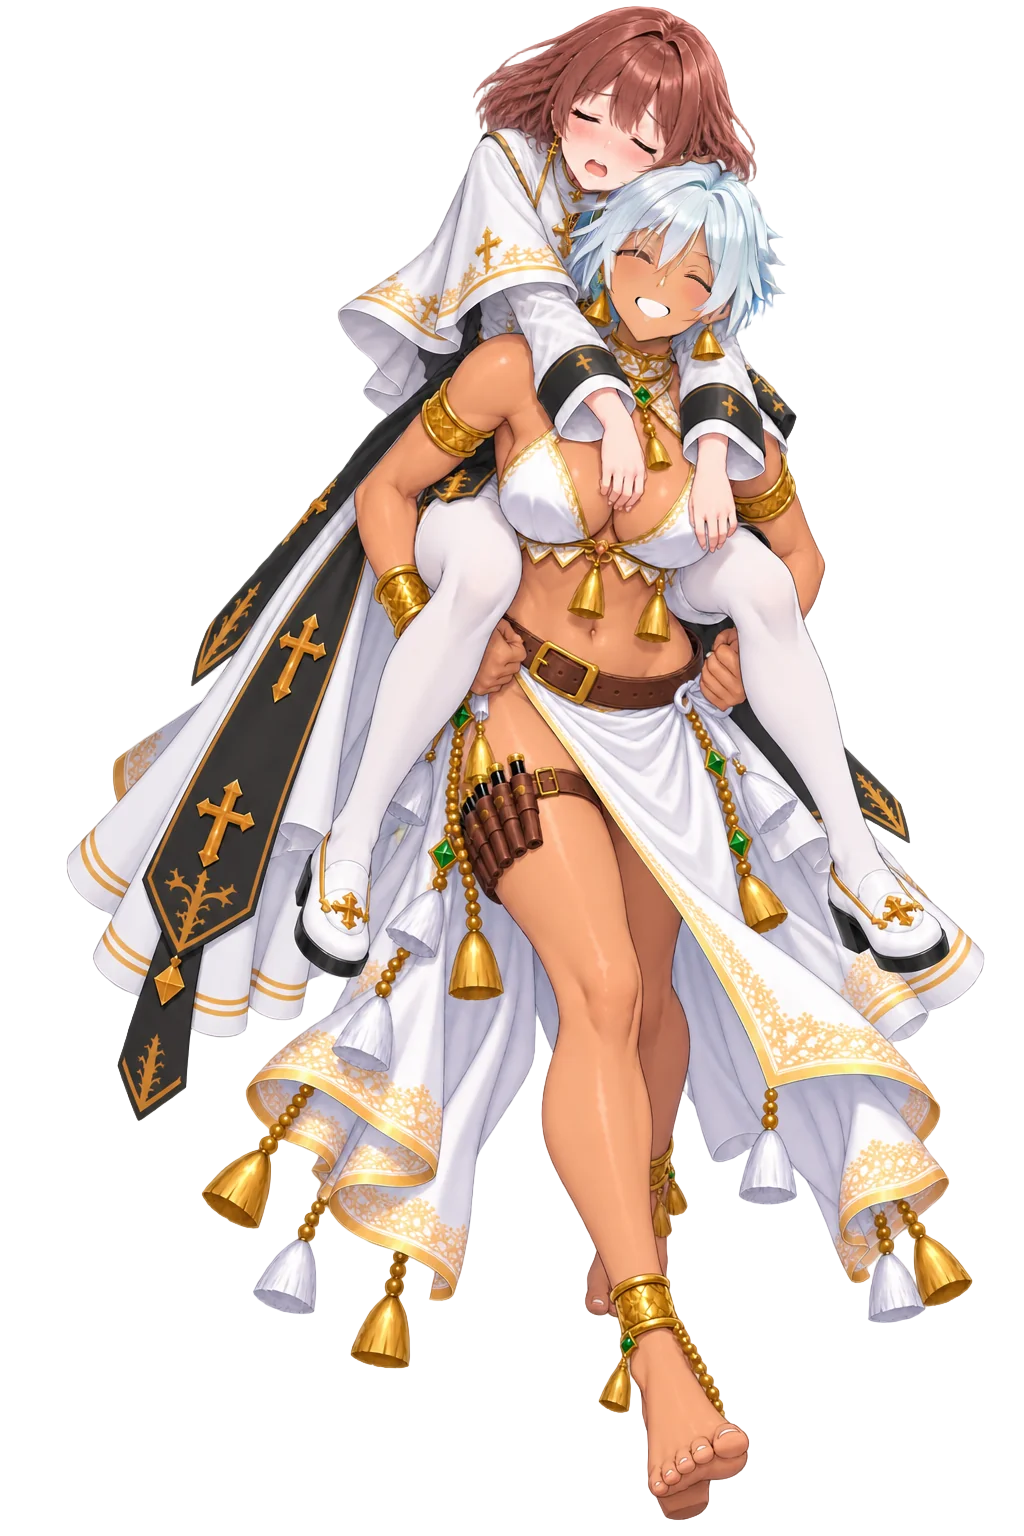
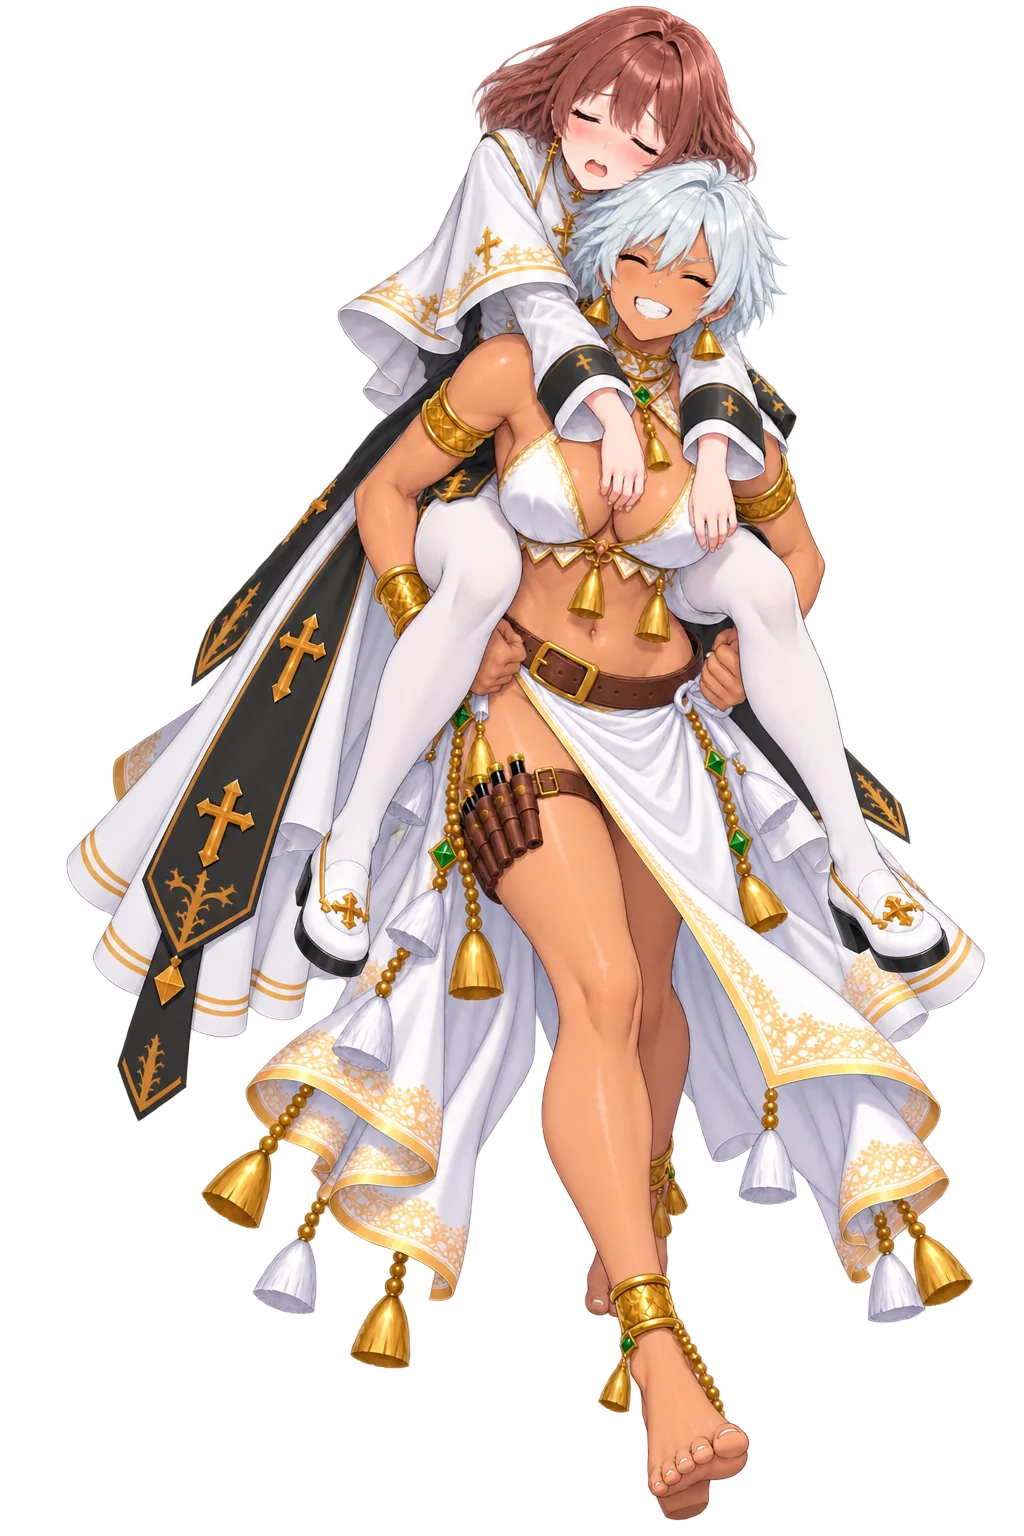
art: 背諾薇兒 +3 張・carrynouvelle 換成 Ray 的 alpha・蕾娜 snivel 入庫
Ray：「用我的那張, renna也收進來 / alpha有新圖, 注意諾的頭髮白邊」

⚠⚠⚠ 他說的白邊屬實，而且四項驗收全是 0.00% —— 近白的判準是 min(RGB)>=235，
而那圈殘留是淡粉灰（約 200），壓根到不了門檻。那個指標對彩色頭髮無效，
它只抓得到白髮／白衣的白霧。

新指標（邊緣亮度超出）＝半透明邊緣像素的 V 減鄰近不透明像素的 V：
  Ray 的 alpha  -56.6 ✔    我的 ToonOut  -36.3 ⛔（差 20/255，5x 棋盤看得見）
修不掉（全部試過，留紀錄）：ml 120/12 -35.8（加迭代無效）／unpremultiply -74.5（過頭）
／混合最好到 -59.0 但 5x 目視仍有淡白 ⇒ 殘留也在 alpha 的軟斜坡上，不只在 F。
⇒ 深色／彩色頭髮優先用 Ray 自己出的 alpha；本機 ToonOut 仍適用白髮／淺色。

⚠⚠⚠ 另一件更要緊的：這一組有兩個世代，不可混用。
  B（Ray 的 alpha）＝ carrynouvelle／shock —— 索的髮偏銀白、髮束較碎
  A（我 ToonOut）  ＝ scream／jealous／smirk —— 索的髮偏藍、髮束較整
兩者身體差 5.35%（最佳位移 0/0 之後仍 5.35%，不是位移是重新生成）。
所以「共用同一份 alpha」按世代分，各自與自己世代的底共用
（改動落在 α<200 的：jealous 0、smirk 0、shock 300）。
shock 那 300 px 在索的右髮尖（rows 170..332 cols 729..778），刻意吃下去 ——
差一線，遠好過換成會在諾的髮緣留白邊的那一份。

⚠ 還開著：scream／jealous／smirk 是 A 世代，切表情時索拉娜的頭髮會跟著變。
  要嘛 Ray 把那三張也出成 alpha，要嘛在 B 的底上重生成 —— 等他決定。

取景（工單 §九）：B top5/bot1520、A top7/bot1519（不要統一），fx 全部 0.648。
蕾娜 snivel（§十）：他自己去好背的，我沒重去背，只轉 webp
（轉檔後 alpha 與原 PNG max 差 0）。top:9 確認是髮頂不是髮飾，fx 0.548。

母版全部進 _originals/si/；投放夾已清、資料夾留著。

Changed region(s): [[0.5312, 0.0938, 0.7812, 0.2188]]

diff --git a/resources/si/_sorana_r3_worklist.md b/resources/si/_sorana_r3_worklist.md
@@ -285,3 +285,89 @@ Ray 走他自己那條路拿到的：**挑一張露肉最少的 SI 當參考 ＋
 
 母版：`resources/_originals/si/sorana_si_carrynouvelle{,scream}_src.png`。
 投放夾內容已清、資料夾留著（README 還在）。
+
+
+---
+
+# 九、⚠⚠⚠ 背諾薇兒那一組：**有兩個世代，不要混用**（ver -1670 後，第二批）
+
+Ray 丟了三張新差分（`shock`／`jealous`／`smirk`），並指定 `carrynouvelle`
+**改用他自己去好背的那一版**。逐像素比對之後發現：**那不是同一次生成。**
+
+| 世代 | 誰 | 索拉娜長什麼樣 | 成員 |
+|---|---|---|---|
+| **B** | Ray 自己出的 alpha（`sorana_si_carrynouvelle.png`） | 髮色偏銀白、髮束較碎 | `carrynouvelle`／`shock` |
+| **A** | 我 ToonOut 去背的那一版 | 髮色偏藍、髮束較整 | `scream`／`jealous`／`smirk` |
+
+兩個世代的身體差 **5.35%**（不是位移，最佳位移 0/0 之後還是 5.35%）——
+差異集中在**索拉娜的頭髮與臉**，其餘是整圈的細邊。
+
+⚠⚠⚠ **所以「同一份 alpha」要按世代分**，不能全部共用一份：
+每一張差分只與**自己世代的底**共用 alpha（實測各自的改動像素落在 α<200 的：
+`jealous` 0、`smirk` 0、`shock` 300）。
+
+⚠⚠ **`shock` 那 300 px 是刻意吃下去的**：它在索拉娜**右側髮尖**
+（rows 170..332, cols 729..778，α 中位數 130），代表那一版她的髮尖動了 1~2 px。
+拿 B 的 alpha 去套會在那裡差一線 —— **但那遠比換成我的 alpha 好**（見下）。
+
+## ⚠⚠⚠ ToonOut 在**諾薇兒的褐髮**上會留白邊，而近白指標抓不到
+
+Ray：「注意諾的頭髮白邊」—— 查證屬實，而且**四項驗收全部是 0.00%**。
+
+原因：近白的判準是 `min(RGB) ≥ 235`，而那圈殘留是**淡粉灰（約 200）**，
+壓根到不了 235。⇒ **那個門檻對彩色頭髮無效**，它只抓得到白髮／白衣的白霧。
+
+**新指標（邊緣亮度超出）**：半透明邊緣像素的 V 減掉**鄰近不透明像素**的 V。
+越負代表髮絲越自然地收細；接近 0 或偏高就是邊緣被白污染。
+
+    你的 PNG（B 世代）        -56.6   ✔
+    我的 ToonOut（A 世代）    -36.3   ⛔ 差 20/255，5x 棋盤上看得見一圈淡白
+    對照 laugh（索，白髮）     -44.6
+
+⚠⚠ **試過修，修不掉**（留著當紀錄，不要再試一遍）：
+
+    ml 40/6（現行）      -35.9
+    ml 120/12           -35.8   ← 加迭代完全沒用（同憲法 -1516 的結論）
+    unpremultiply       -74.5   ← 過頭，而且 α→0 會炸
+    混合 w=(α-0.30)/.35 -42.5
+    混合 w=(α-0.15)/.35 -48.6
+    混合 w=(α-0.05)/.30 -59.0   ← 數字對了，**5x 目視仍看得到淡白**
+
+⇒ **殘留不只在前景色 F，也在 alpha 的軟斜坡本身。**
+**結論：深色／彩色頭髮的圖，Ray 自己出的 alpha 比本機 ToonOut 好，優先用他的。**
+本機那條仍然適用**白髮／淺色**（索拉娜自己那 61 張都沒問題）。
+
+## ⚠ 還沒解決的：`scream`／`jealous`／`smirk` 是 A 世代
+
+它們的諾薇兒髮緣**帶著那圈淡白**，而且索拉娜與 `carrynouvelle`（B）**長得不一樣** ——
+在劇情裡切換表情時，她的頭髮會跟著變。**兩條路，等 Ray 決定**：
+
+1. 他把那三張也**出成 alpha** 給我（最乾淨，與 B 一致）
+2. 或者**重生成**在 B 的底上
+
+## 程式端要接：`speakers.js`
+
+    carrynouvelle:        { src:'resources/si/sorana_si_carrynouvelle.webp',        top:5, bot:1520, fx:0.648 },
+    carrynouvelleshock:   { src:'resources/si/sorana_si_carrynouvelleshock.webp',   top:5, bot:1520, fx:0.648 },
+    carrynouvellescream:  { src:'resources/si/sorana_si_carrynouvellescream.webp',  top:7, bot:1519, fx:0.648 },
+    carrynouvellejealous: { src:'resources/si/sorana_si_carrynouvellejealous.webp', top:7, bot:1519, fx:0.648 },
+    carrynouvellesmirk:   { src:'resources/si/sorana_si_carrynouvellesmirk.webp',   top:7, bot:1519, fx:0.648 },
+
+⚠ `top`／`bot` **兩個世代不同**（B 是 5/1520、A 是 7/1519）—— 照抄，不要統一。
+⚠ `fx 0.648` 兩個世代都一樣（B 的睫毛實測 629.8／697.4，A 是 625.2／701.7，中點都是 663.x）。
+⚠ `cm` **不要填**（理由見 §八）。全部是新檔，**不必 `?v=`**。
+
+---
+
+# 十、蕾娜 `snivel`（ver -1670 後，Ray 直接丟在 `resources/si/`）
+
+他自己去好背的（近白 **0.00%**、角α 0、半透明 21,275 px）—— **我沒有重去背**，只轉 webp
+（`q85 / alpha_q100 / method6`，134 KB，**轉檔後 alpha 與原 PNG max 差 0**）。
+
+    snivel: { src:'resources/si/renna_si_snivel.webp', top:9, bot:1526, fx:0.548 },
+
+⚠ `top:9` 確認是她的**髮頂**不是髮飾（row 9 的內容在 x 539..551，正在頭頂中央；
+銀葉髮飾在側邊，沒有超出頭頂）。
+⚠ `fx 0.548` ＝ 兩眼中點 560.9/1024（睫毛實測 524.7／597.2，已目視確認在鼻梁上）。
+她在擦眼淚、頭是低的 —— **`top`／`bot` 照量的填，要調大小就動 `cm`／`standCm`**。
+新檔，不必 `?v=`。母版進 `resources/_originals/si/`。
